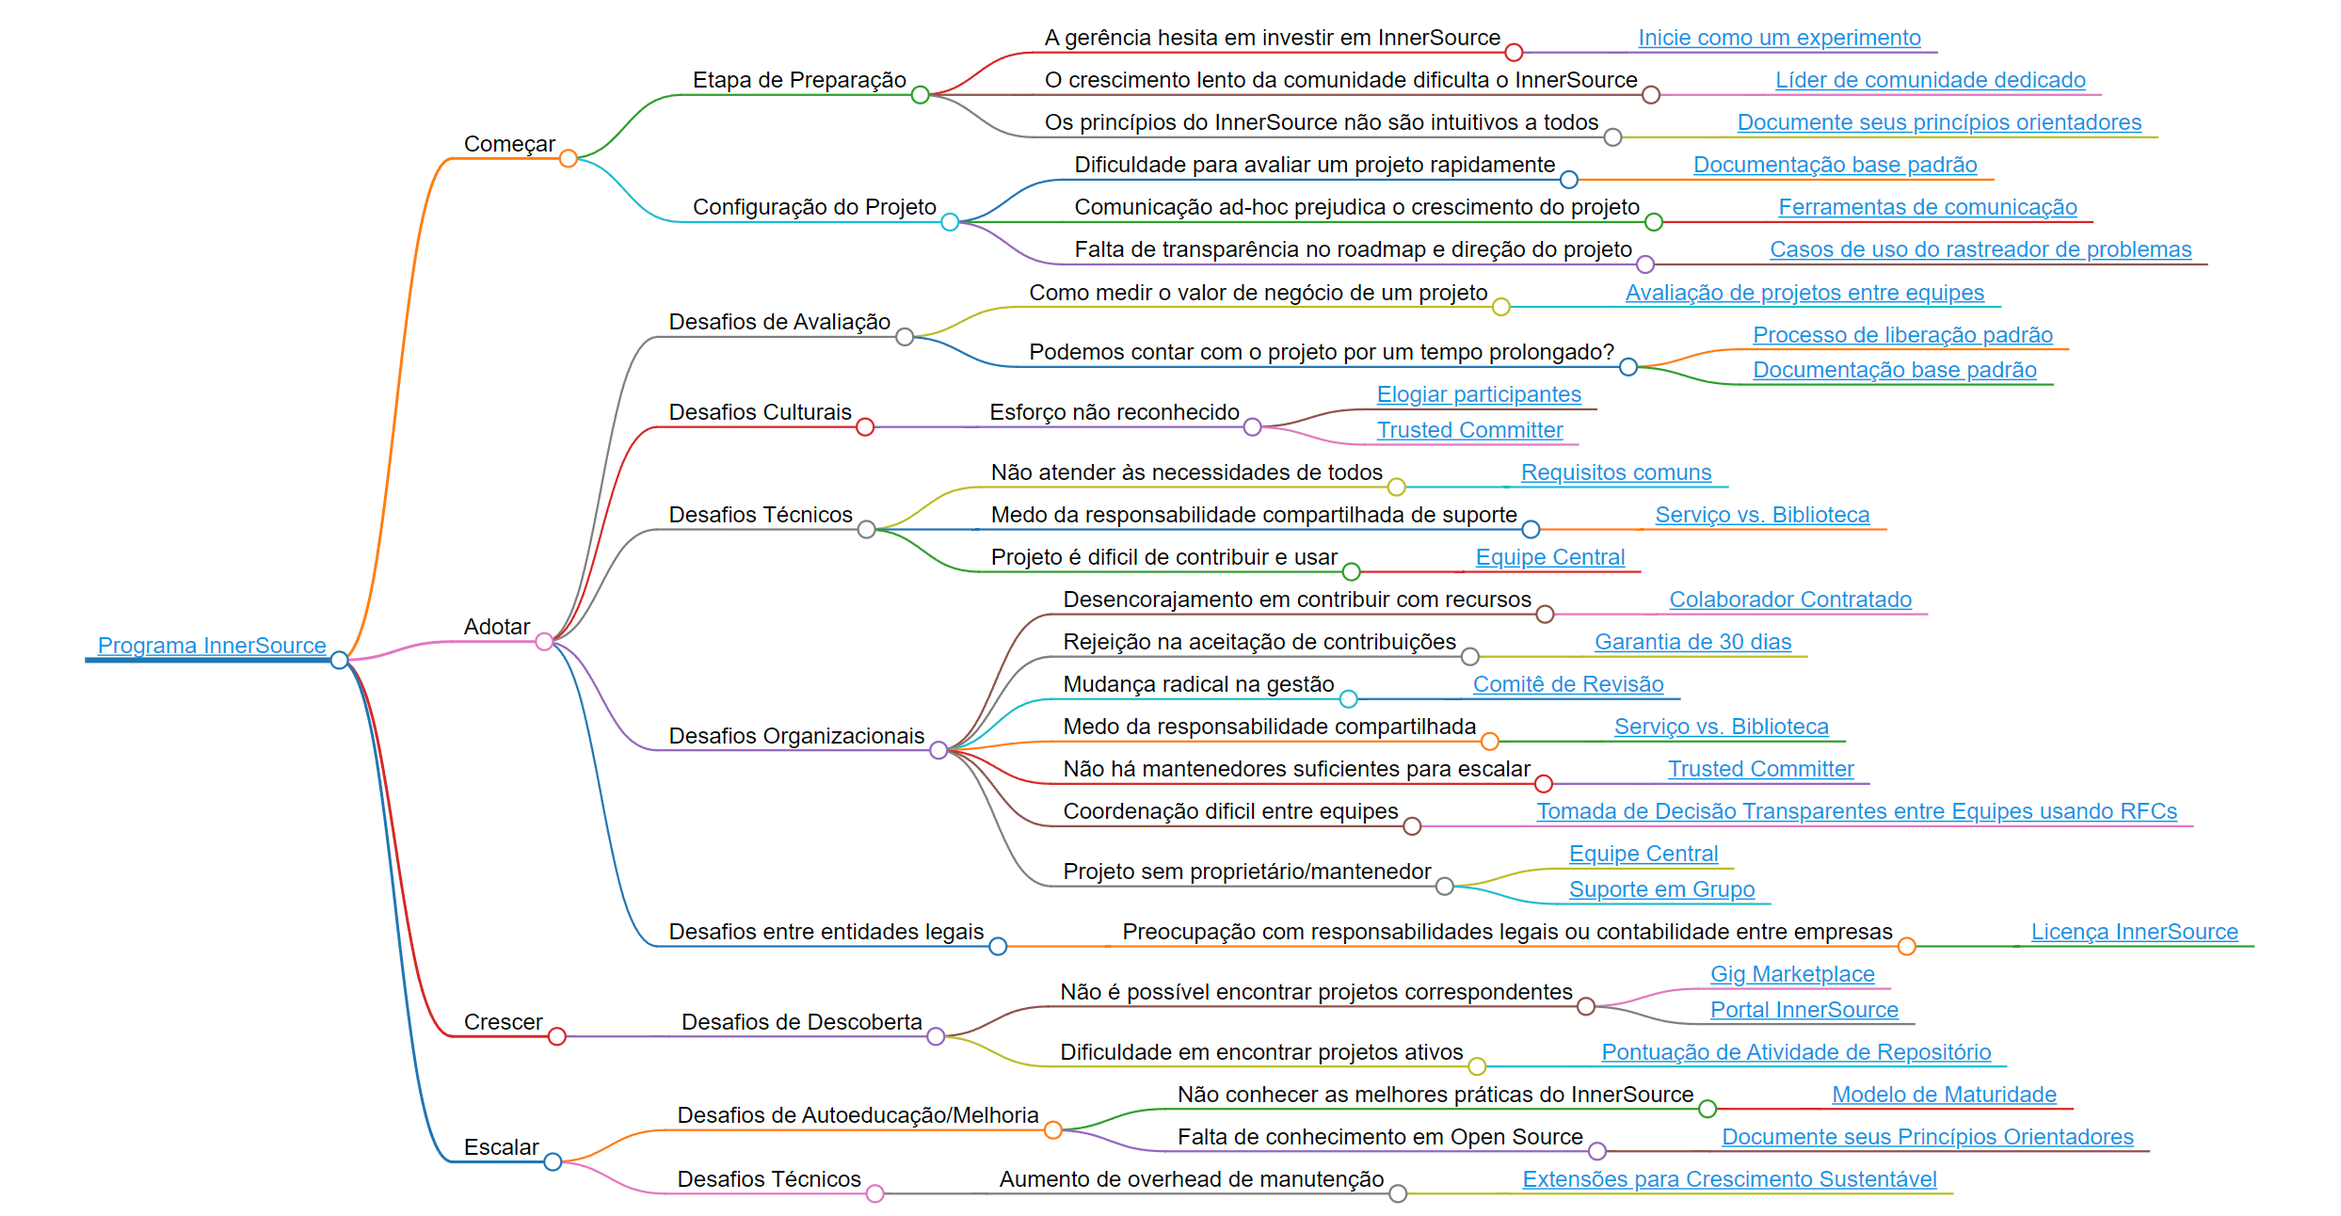
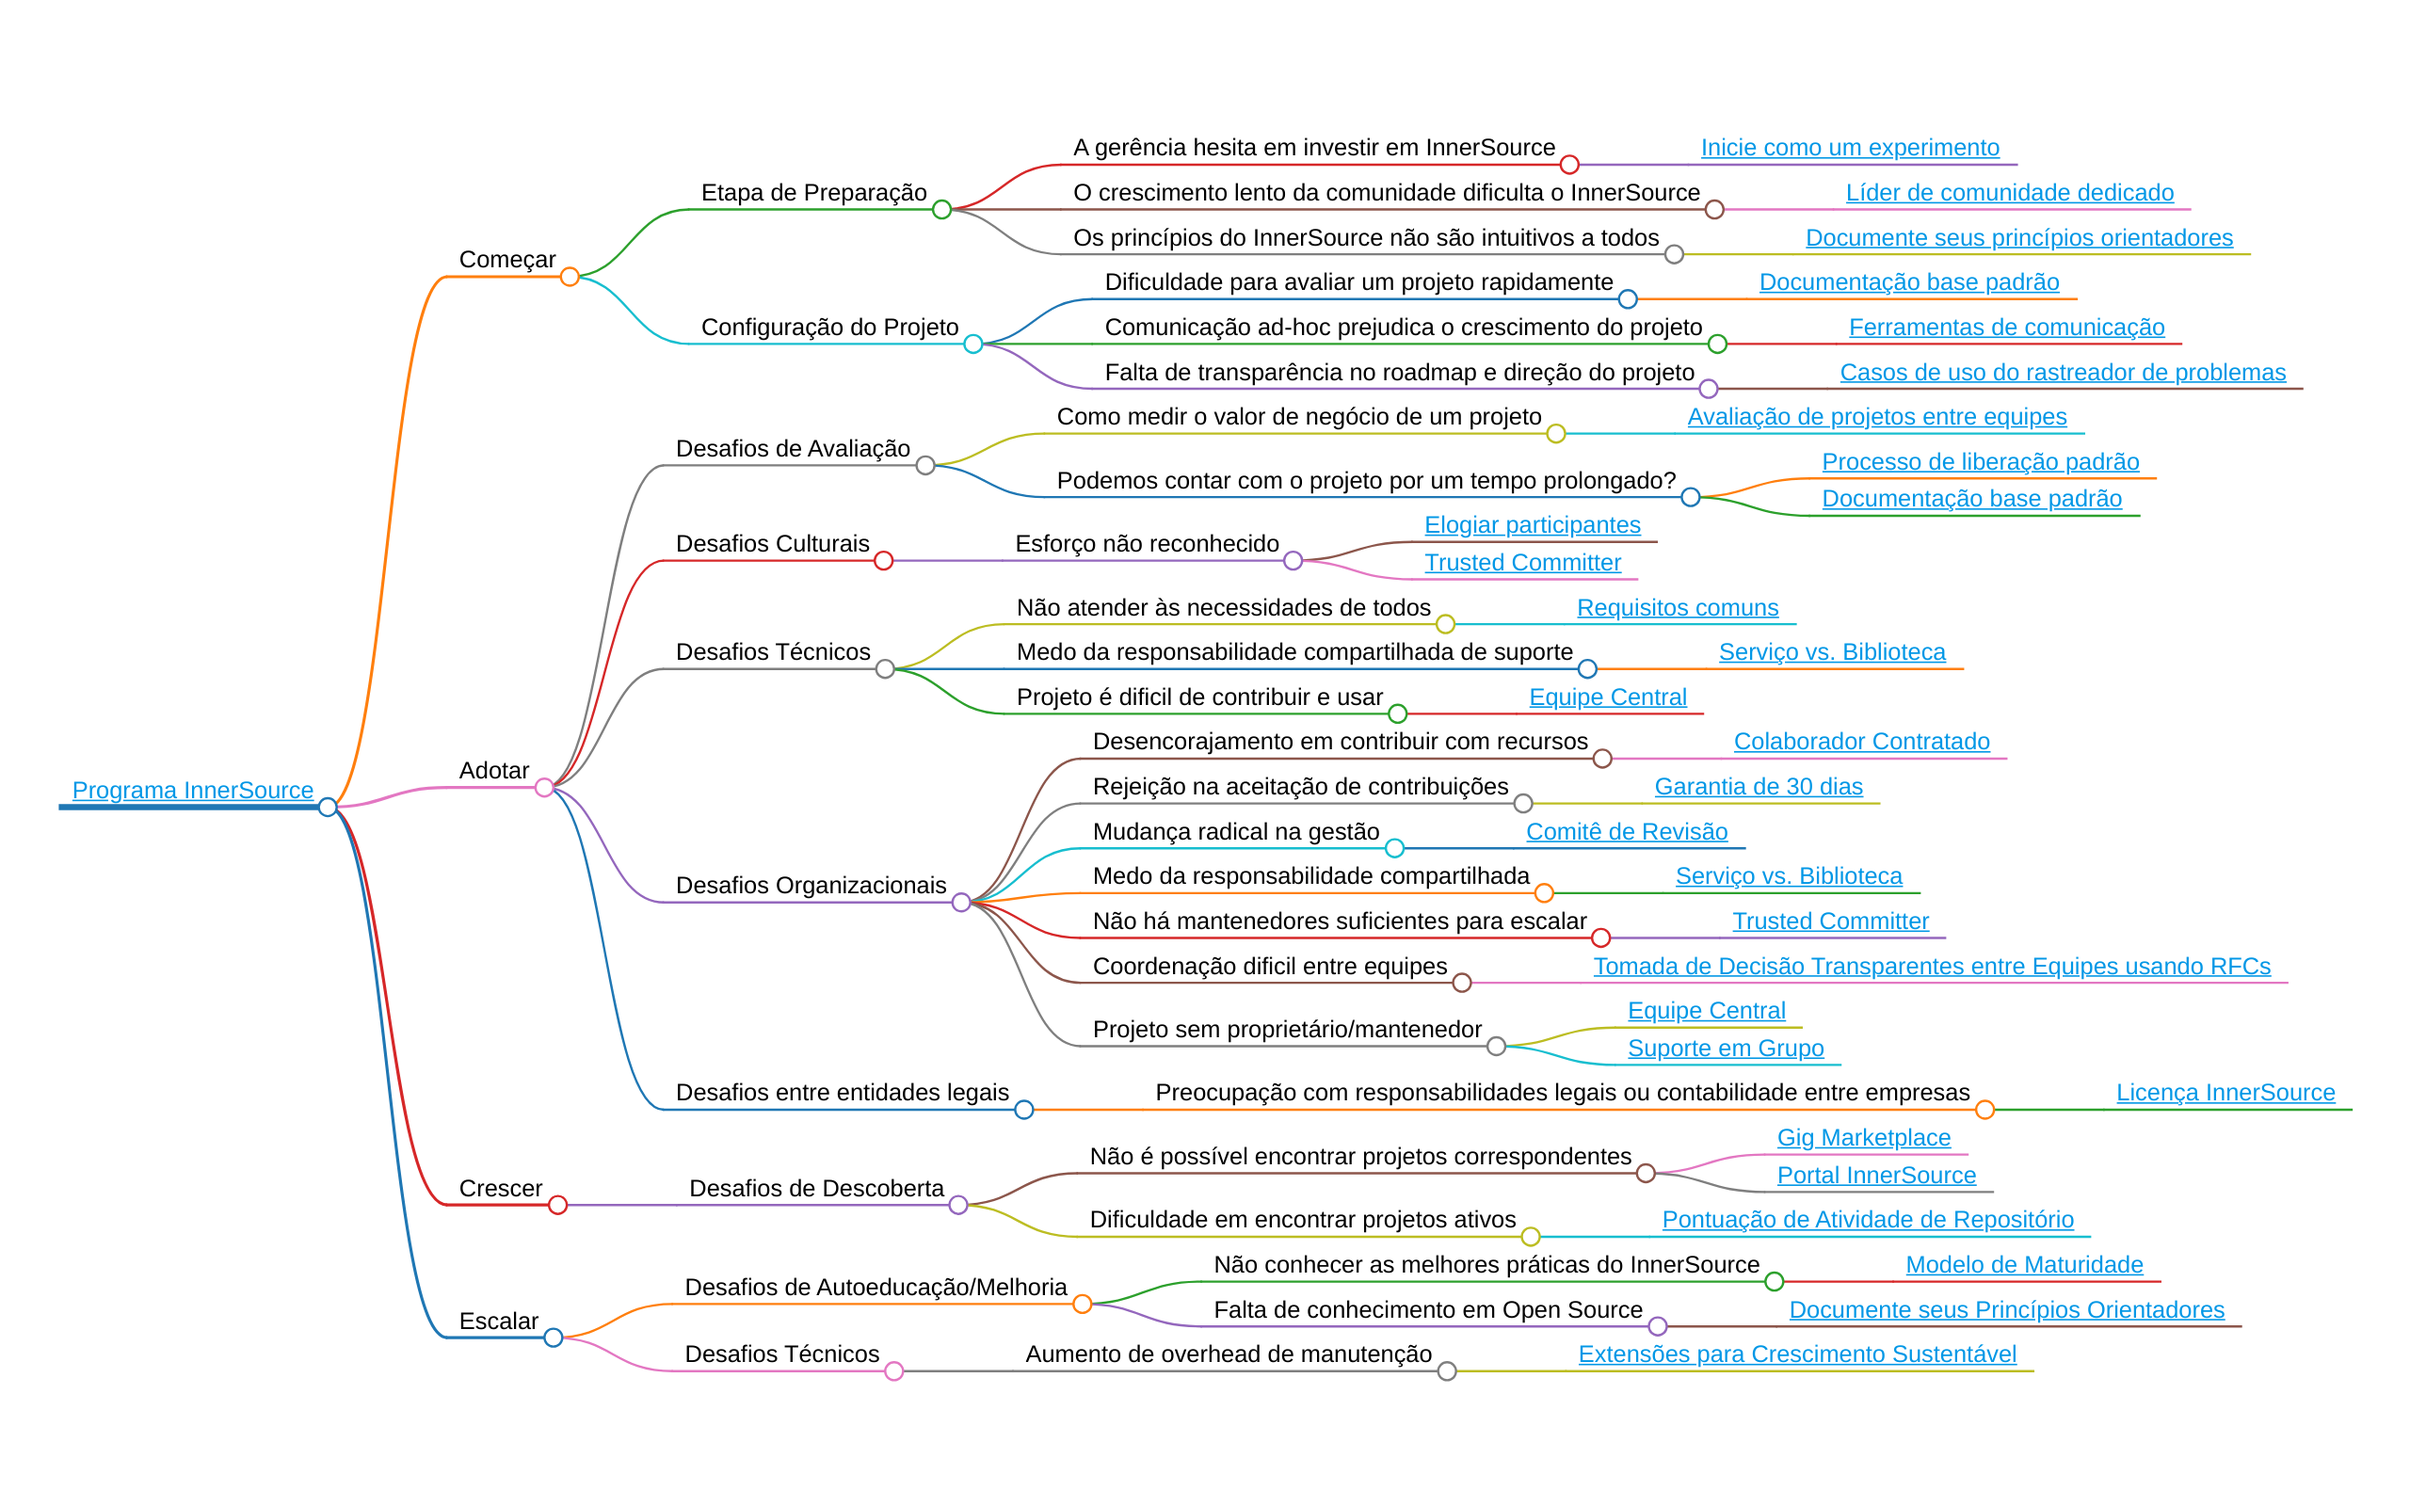
Re-creating markmap and screenshot

diff --git a/pattern-categorization/pt-br/innersource-program-mind-map.html b/pattern-categorization/pt-br/innersource-program-mind-map.html
@@ -20,7 +20,7 @@
 </head>
 <body>
 <svg id="mindmap"></svg>
-<script src="https://unpkg.com/d3@7.8.5/dist/d3.min.js"></script><script src="https://unpkg.com/markmap-view@0.15.4/dist/browser/index.js"></script><script>((getMarkmap, getOptions, root, jsonOptions) => {
+<script src="https://cdn.jsdelivr.net/npm/d3@7.8.5/dist/d3.min.js"></script><script src="https://cdn.jsdelivr.net/npm/markmap-view@0.15.4/dist/browser/index.js"></script><script>((getMarkmap, getOptions, root, jsonOptions) => {
           const markmap = getMarkmap();
           window.mm = markmap.Markmap.create('svg#mindmap', (getOptions || markmap.deriveOptions)(jsonOptions), root);
         })(() => window.markmap,null,{"type":"heading","depth":0,"payload":{"lines":[0,1]},"content":"<a href=\"https://patterns.innersourcecommons.org/toc\">Programa InnerSource</a>","children":[{"type":"heading","depth":1,"payload":{"lines":[2,3]},"content":"Começar","children":[{"type":"heading","depth":2,"payload":{"lines":[4,5]},"content":"Etapa de Preparação","children":[{"type":"heading","depth":3,"payload":{"lines":[6,7]},"content":"A gerência hesita em investir em InnerSource","children":[{"type":"heading","depth":4,"payload":{"lines":[8,9]},"content":"<a href=\"https://patterns.innersourcecommons.org/v/pt-br/p/start-as-experiment\">Inicie como um experimento</a>","children":[]}]},{"type":"heading","depth":3,"payload":{"lines":[10,11]},"content":"O crescimento lento da comunidade dificulta o InnerSource","children":[{"type":"heading","depth":4,"payload":{"lines":[12,13]},"content":"<a href=\"https://patterns.innersourcecommons.org/v/pt-br/p/dedicated-community-leader\">Líder de comunidade dedicado</a>","children":[]}]},{"type":"heading","depth":3,"payload":{"lines":[14,15]},"content":"Os princípios do InnerSource não são intuitivos a todos","children":[{"type":"heading","depth":4,"payload":{"lines":[16,17]},"content":"<a href=\"https://patterns.innersourcecommons.org/v/pt-br/p/document-your-guiding-principles\">Documente seus princípios orientadores</a>","children":[]}]}]},{"type":"heading","depth":2,"payload":{"lines":[18,19]},"content":"Configuração do Projeto","children":[{"type":"heading","depth":3,"payload":{"lines":[20,21]},"content":"Dificuldade para avaliar um projeto rapidamente","children":[{"type":"heading","depth":4,"payload":{"lines":[22,23]},"content":"<a href=\"https://patterns.innersourcecommons.org/v/pt-br/p/base-documentation\">Documentação base padrão</a>","children":[]}]},{"type":"heading","depth":3,"payload":{"lines":[24,25]},"content":"Comunicação ad-hoc prejudica o crescimento do projeto","children":[{"type":"heading","depth":4,"payload":{"lines":[26,27]},"content":"<a href=\"https://patterns.innersourcecommons.org/v/pt-br/p/communication-tooling\">Ferramentas de comunicação</a>","children":[]}]},{"type":"heading","depth":3,"payload":{"lines":[28,29]},"content":"Falta de transparência no roadmap e direção do projeto","children":[{"type":"heading","depth":4,"payload":{"lines":[30,31]},"content":"<a href=\"https://patterns.innersourcecommons.org/v/pt-br/p/issue-tracker\">Casos de uso do rastreador de problemas</a>","children":[]}]}]}]},{"type":"heading","depth":1,"payload":{"lines":[32,33]},"content":"Adotar","children":[{"type":"heading","depth":2,"payload":{"lines":[34,35]},"content":"Desafios de Avaliação","children":[{"type":"heading","depth":3,"payload":{"lines":[36,37]},"content":"Como medir o valor de negócio de um projeto","children":[{"type":"heading","depth":4,"payload":{"lines":[38,39]},"content":"<a href=\"https://patterns.innersourcecommons.org/v/pt-br/p/crossteam-project-valuation\">Avaliação de projetos entre equipes</a>","children":[]}]},{"type":"heading","depth":3,"payload":{"lines":[40,41]},"content":"Podemos contar com o projeto por um tempo prolongado?","children":[{"type":"heading","depth":4,"payload":{"lines":[42,43]},"content":"<a href=\"https://patterns.innersourcecommons.org/v/pt-br/p/release-process\">Processo de liberação padrão</a>","children":[]},{"type":"heading","depth":4,"payload":{"lines":[44,45]},"content":"<a href=\"https://patterns.innersourcecommons.org/v/pt-br/p/base-documentation\">Documentação base padrão</a>","children":[]}]}]},{"type":"heading","depth":2,"payload":{"lines":[46,47]},"content":"Desafios Culturais","children":[{"type":"heading","depth":3,"payload":{"lines":[48,49]},"content":"Esforço não reconhecido","children":[{"type":"heading","depth":4,"payload":{"lines":[50,51]},"content":"<a href=\"https://patterns.innersourcecommons.org/v/pt-br/p/praise-participants\">Elogiar participantes</a>","children":[]},{"type":"heading","depth":4,"payload":{"lines":[52,53]},"content":"<a href=\"https://patterns.innersourcecommons.org/v/pt-br/p/trusted-committer\">Trusted Committer</a>","children":[]}]}]},{"type":"heading","depth":2,"payload":{"lines":[54,55]},"content":"Desafios Técnicos","children":[{"type":"heading","depth":3,"payload":{"lines":[56,57]},"content":"Não atender às necessidades de todos","children":[{"type":"heading","depth":4,"payload":{"lines":[58,59]},"content":"<a href=\"https://patterns.innersourcecommons.org/v/pt-br/p/common-requirements\">Requisitos comuns</a>","children":[]}]},{"type":"heading","depth":3,"payload":{"lines":[60,61]},"content":"Medo da responsabilidade compartilhada de suporte","children":[{"type":"heading","depth":4,"payload":{"lines":[62,63]},"content":"<a href=\"https://patterns.innersourcecommons.org/v/pt-br/p/service-vs-library\">Serviço vs. Biblioteca</a>","children":[]}]},{"type":"heading","depth":3,"payload":{"lines":[64,65]},"content":"Projeto é dificil de contribuir e usar","children":[{"type":"heading","depth":4,"payload":{"lines":[66,67]},"content":"<a href=\"https://patterns.innersourcecommons.org/v/pt-br/p/core-team\">Equipe Central</a>","children":[]}]}]},{"type":"heading","depth":2,"payload":{"lines":[68,69]},"content":"Desafios Organizacionais","children":[{"type":"heading","depth":3,"payload":{"lines":[70,71]},"content":"Desencorajamento em contribuir com recursos","children":[{"type":"heading","depth":4,"payload":{"lines":[72,73]},"content":"<a href=\"https://patterns.innersourcecommons.org/v/pt-br/p/contracted-contributor\">Colaborador Contratado</a>","children":[]}]},{"type":"heading","depth":3,"payload":{"lines":[74,75]},"content":"Rejeição na aceitação de contribuições","children":[{"type":"heading","depth":4,"payload":{"lines":[76,77]},"content":"<a href=\"https://patterns.innersourcecommons.org/v/pt-br/p/30-day-warranty\">Garantia de 30 dias</a>","children":[]}]},{"type":"heading","depth":3,"payload":{"lines":[78,79]},"content":"Mudança radical na gestão","children":[{"type":"heading","depth":4,"payload":{"lines":[80,81]},"content":"<a href=\"https://patterns.innersourcecommons.org/v/pt-br/p/review-committee\">Comitê de Revisão</a>","children":[]}]},{"type":"heading","depth":3,"payload":{"lines":[82,83]},"content":"Medo da responsabilidade compartilhada","children":[{"type":"heading","depth":4,"payload":{"lines":[84,85]},"content":"<a href=\"https://patterns.innersourcecommons.org/v/pt-br/p/service-vs-library\">Serviço vs. Biblioteca</a>","children":[]}]},{"type":"heading","depth":3,"payload":{"lines":[86,87]},"content":"Não há mantenedores suficientes para escalar","children":[{"type":"heading","depth":4,"payload":{"lines":[88,89]},"content":"<a href=\"https://patterns.innersourcecommons.org/v/pt-br/p/trusted-committer\">Trusted Committer</a>","children":[]}]},{"type":"heading","depth":3,"payload":{"lines":[90,91]},"content":"Coordenação dificil entre equipes","children":[{"type":"heading","depth":4,"payload":{"lines":[92,93]},"content":"<a href=\"https://patterns.innersourcecommons.org/v/pt-br/p/transparent-cross-team-decision-making-using-rfcs\">Tomada de Decisão Transparentes entre Equipes usando RFCs</a>","children":[]}]},{"type":"heading","depth":3,"payload":{"lines":[94,95]},"content":"Projeto sem proprietário/mantenedor","children":[{"type":"heading","depth":4,"payload":{"lines":[96,97]},"content":"<a href=\"https://patterns.innersourcecommons.org/v/pt-br/p/core-team\">Equipe Central</a>","children":[]},{"type":"heading","depth":4,"payload":{"lines":[98,99]},"content":"<a href=\"https://patterns.innersourcecommons.org/v/pt-br/p/group-support\">Suporte em Grupo</a>","children":[]}]}]},{"type":"heading","depth":2,"payload":{"lines":[100,101]},"content":"Desafios entre entidades legais","children":[{"type":"heading","depth":3,"payload":{"lines":[102,103]},"content":"Preocupação com responsabilidades legais ou contabilidade entre empresas","children":[{"type":"heading","depth":4,"payload":{"lines":[104,105]},"content":"<a href=\"https://patterns.innersourcecommons.org/v/pt-br/p/innersource-license\">Licença InnerSource</a>","children":[]}]}]}]},{"type":"heading","depth":1,"payload":{"lines":[106,107]},"content":"Crescer","children":[{"type":"heading","depth":2,"payload":{"lines":[108,109]},"content":"Desafios de Descoberta","children":[{"type":"heading","depth":3,"payload":{"lines":[110,111]},"content":"Não é possível encontrar projetos correspondentes","children":[{"type":"heading","depth":4,"payload":{"lines":[112,113]},"content":"<a href=\"https://patterns.innersourcecommons.org/v/pt-br/p/gig-marketplace\">Gig Marketplace</a>","children":[]},{"type":"heading","depth":4,"payload":{"lines":[114,115]},"content":"<a href=\"https://patterns.innersourcecommons.org/v/pt-br/p/innersource-portal\">Portal InnerSource</a>","children":[]}]},{"type":"heading","depth":3,"payload":{"lines":[116,117]},"content":"Dificuldade em encontrar projetos ativos","children":[{"type":"heading","depth":4,"payload":{"lines":[118,119]},"content":"<a href=\"https://patterns.innersourcecommons.org/v/pt-br/p/repository-activity-score\">Pontuação de Atividade de Repositório</a>","children":[]}]}]}]},{"type":"heading","depth":1,"payload":{"lines":[120,121]},"content":"Escalar","children":[{"type":"heading","depth":2,"payload":{"lines":[122,123]},"content":"Desafios de Autoeducação/Melhoria","children":[{"type":"heading","depth":3,"payload":{"lines":[124,125]},"content":"Não conhecer as melhores práticas do InnerSource","children":[{"type":"heading","depth":4,"payload":{"lines":[126,127]},"content":"<a href=\"https://patterns.innersourcecommons.org/v/pt-br/p/maturity-model\">Modelo de Maturidade</a>","children":[]}]},{"type":"heading","depth":3,"payload":{"lines":[128,129]},"content":"Falta de conhecimento em Open Source","children":[{"type":"heading","depth":4,"payload":{"lines":[130,131]},"content":"<a href=\"https://patterns.innersourcecommons.org/v/pt-br/p/document-your-guiding-principles\">Documente seus Princípios Orientadores</a>","children":[]}]}]},{"type":"heading","depth":2,"payload":{"lines":[132,133]},"content":"Desafios Técnicos","children":[{"type":"heading","depth":3,"payload":{"lines":[134,135]},"content":"Aumento de overhead de manutenção","children":[{"type":"heading","depth":4,"payload":{"lines":[136,137]},"content":"<a href=\"https://patterns.innersourcecommons.org/v/pt-br/p/extensions-for-sustainable-growth\">Extensões para Crescimento Sustentável</a>","children":[]}]}]}]}]},null)</script>
